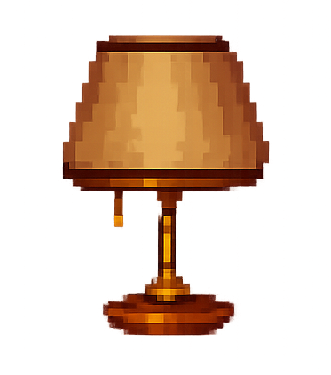
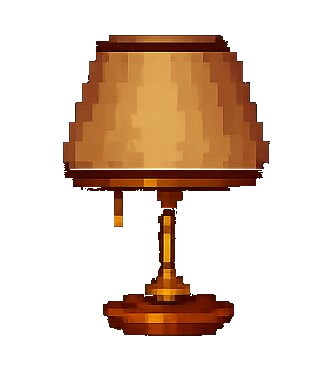
ajout skin pour les lampes

diff --git a/game.py b/game.py
@@ -179,7 +179,6 @@ def load_lamp_images(base_dir: Path) -> dict:
         path_off = base_dir / "lamp_off.png"
         img_on  = pygame.image.load(str(path_on)).convert()
         img_off = pygame.image.load(str(path_off)).convert()
-        # Rendre le fond noir transparent
         img_on.set_colorkey((0, 0, 0))
         img_off.set_colorkey((0, 0, 0))
         images["on"]     = img_on
@@ -190,12 +189,30 @@ def load_lamp_images(base_dir: Path) -> dict:
     return images
 
 
+def load_sprite_images(base_dir: Path) -> dict:
+    """Charge player.png et ball.png depuis le dossier du projet."""
+    sprites = {"player": None, "ball": None, "loaded": False}
+    try:
+        img_player = pygame.image.load(str(base_dir / "player.png")).convert()
+        img_ball   = pygame.image.load(str(base_dir / "ball.png")).convert()
+        # Fond blanc transparent
+        img_player.set_colorkey((255, 255, 255))
+        img_ball.set_colorkey((255, 255, 255))
+        sprites["player"]  = img_player
+        sprites["ball"]    = img_ball
+        sprites["loaded"]  = True
+    except Exception as e:
+        print(f"[sprite images] impossible de charger: {e}")
+    return sprites
+
+
 def get_lamp_image(lamp: dict, lamp_images: dict) -> pygame.Surface | None:
     """Retourne l'image redimensionnée pour cette lampe selon son radius."""
     if not lamp_images.get("loaded"):
         return None
     src = lamp_images["on"] if lamp["is_on"] else lamp_images["off"]
-    size = int(lamp["radius"] * 2.8)
+    # Taille affichée : diamètre * 2.2 pour que la lampe soit bien visible
+    size = int(lamp["radius"] * 4.4)
     return pygame.transform.smoothscale(src, (size, size))
 
 
@@ -469,8 +486,17 @@ def draw_player(screen, game: dict) -> None:
     y = int(game["player_y"])
     s = min(game["scale_x"], game["scale_y"])
     r = int(25 * s)
-    pygame.draw.circle(screen, make_color(255, 183, 3), (x, y - r), r)
 
+    sprites = game.get("sprites", {"loaded": False})
+    if sprites.get("loaded") and sprites["player"] is not None:
+        size = int(r * 5)
+        img = pygame.transform.smoothscale(sprites["player"], (size, size))
+        screen.blit(img, (x - size // 2, y - size))
+    else:
+        # Fallback cercle
+        pygame.draw.circle(screen, make_color(255, 183, 3), (x, y - r), r)
+
+    # Ligne de visée toujours affichée
     aim_len = int(45 * s)
     angle_rad = deg_to_rad(game["angle"])
     end_x = int(x + aim_len * math.cos(angle_rad))
@@ -515,13 +541,16 @@ def draw_lamps(screen, game: dict, font) -> None:
 
 def draw_projectiles(screen, game: dict) -> None:
     radius = game["projectile_radius"]
+    sprites = game.get("sprites", {"loaded": False})
     for projectile in game["projectiles"]:
-        pygame.draw.circle(
-            screen,
-            make_color(131, 56, 236),
-            (int(projectile["x"]), int(projectile["y"])),
-            radius,
-        )
+        px = int(projectile["x"])
+        py = int(projectile["y"])
+        if sprites.get("loaded") and sprites["ball"] is not None:
+            size = radius * 2
+            img = pygame.transform.smoothscale(sprites["ball"], (size, size))
+            screen.blit(img, (px - size // 2, py - size // 2))
+        else:
+            pygame.draw.circle(screen, make_color(131, 56, 236), (px, py), radius)
 
 
 def make_hud_text(game: dict) -> list[str]:
@@ -723,7 +752,7 @@ def run_game_loop(screen, game: dict, font, large_font, huge_font, sounds: dict)
         render_frame(screen, game, font, large_font, huge_font)
 
         used_ms = clock.tick(game["fps_limit"])
-        budget_ms = 1000.0 / game["fps_limit"]
+        budget_ms = 10000000.0 / game["fps_limit"]
         if used_ms > budget_ms and game["state"] == "playing":
             game["feedback"] = "Calcul lourd: optimise le code pour eco-concevoir."
 
@@ -754,6 +783,7 @@ def run_game(screen, real_width: int = 0, real_height: int = 0) -> None:
     game = make_game_state(config, real_width, real_height)
     sounds = load_sounds(base_dir)
     game["lamp_images"] = load_lamp_images(base_dir)
+    game["sprites"]     = load_sprite_images(base_dir)
 
     run_game_loop(screen, game, font, large_font, huge_font, sounds)
 
